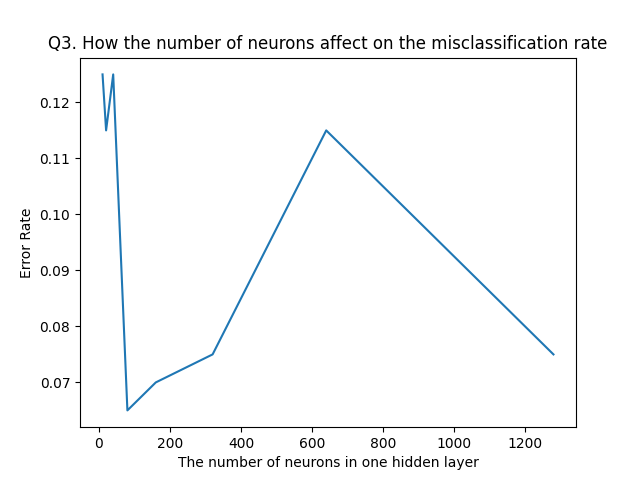
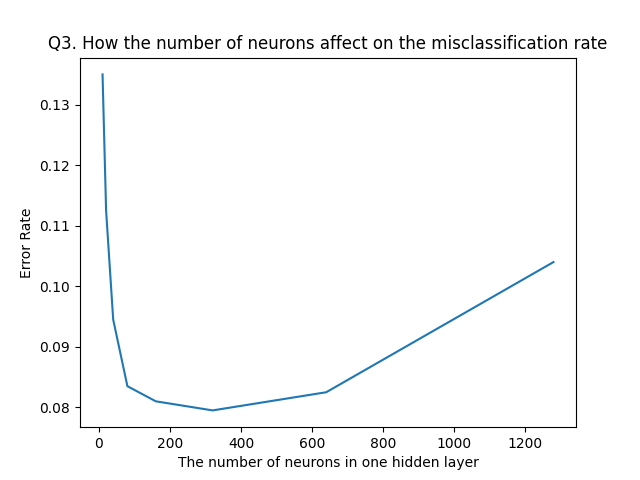
modify code in Q3.py for the correct graph shape

diff --git a/scripts/Q3.py b/scripts/Q3.py
@@ -28,10 +28,14 @@ hidden_layers = [10, 20, 40, 80, 160, 320, 640, 1280] # the number of neurons
 error_rates = [] # the error rates for each hidden layer
 num_classes = 10
 predicted_test_label = ""
+global_error_rates = []
 
-# Run the experiment 10 times
+# for-loop to go over every layer in hidden_layers[]
 for current_hidden_layer in hidden_layers:
     print(f"\n-> Current # of neurons: {current_hidden_layer}")
+    local_error_rates = [] # A list to contain the current layer's error rate
+
+    # for-loop to train the layer 10 times 
     for i in range(10):
         print(f"Experiment: [{i+1} / 10]")
 
@@ -47,24 +51,35 @@ for current_hidden_layer in hidden_layers:
         # Predict the test_label by applying the trained model to test_set
         predicted_value, predicted_test_label = my_NN.predict(test_set)
 
-        # Compute the error for the current layer(the number of neurons)
+        # Compute the error for the current layer
         predicted_test_label = predicted_test_label.flatten() # (200,)
         num_of_errors = 0
-        for i in range(len(test_label)):
-            if predicted_test_label[i] != test_label[i]:
+        # print(f"The size of predicted_test_label: {len(predicted_test_label)}") # 200
+        # print(f"The size of true_test_label: {len(test_label)}") # 200
+        for j in range(len(test_label)):
+            if predicted_test_label[j] != test_label[j]:
                 num_of_errors += 1
-    
-    # Compute the current layer's error rate
-    error_rate = num_of_errors / len(test_label)
-    error_rates.append(error_rate)
-    print(f"The current number of neuron({current_hidden_layer})'s error rate is {error_rate}")
+        print(f"The number of errors: {num_of_errors}")
 
+        # Compute the current layer's error rate
+        local_error_rate = num_of_errors / len(test_label)
+        print(f"The layer with {current_hidden_layer} neurons's {i+1}th error rate is {local_error_rate}\n")
+        local_error_rates.append(local_error_rate)
+    
+    # Calculate the average of local_error_rate[]
+    avg_local_error_rate = np.average(local_error_rates)
+    
+    # Append the averages from each local_error_rates[] to global_error_rates[]
+    print(f"The layer with {current_hidden_layer}'s average error rate is {avg_local_error_rate}\n")
+    global_error_rates.append(avg_local_error_rate)
+    
+    
 # Final result
 print("\n------------------------------<Result>------------------------------")
-avg_error_rate = num_of_errors / len(test_label)
-print("The average error rate is", avg_error_rate)
+global_avg_error_rate = np.average(global_error_rates)
+print(f"The average of elements in global_error_rates: {global_avg_error_rate}")
 plt.figure()
-plt.plot(hidden_layers, error_rates)
+plt.plot(hidden_layers, global_error_rates)
 plt.xlabel("The number of neurons in one hidden layer")
 plt.ylabel("Error Rate")
 plt.title("Q3. How the number of neurons affect on the misclassification rate")

diff --git a/README.md b/README.md
@@ -45,6 +45,6 @@ This is the instruction what code to run to get the answers for questions in [PD
     - To see the result, simply run `Q3.py`
     - Example output:
         ![Q3_decreasing-graph](./results_images/Q3_decreasing-graph.png)
-        > "[The graph](./results_images/Q3_decreasing-graph.png) spikes in the middle, but then gradually declines as it's supposed."
+        > "The error rate of [the graph](./results_images/Q3_decreasing-graph.png) increases at the certain number of neurons."
 
     
